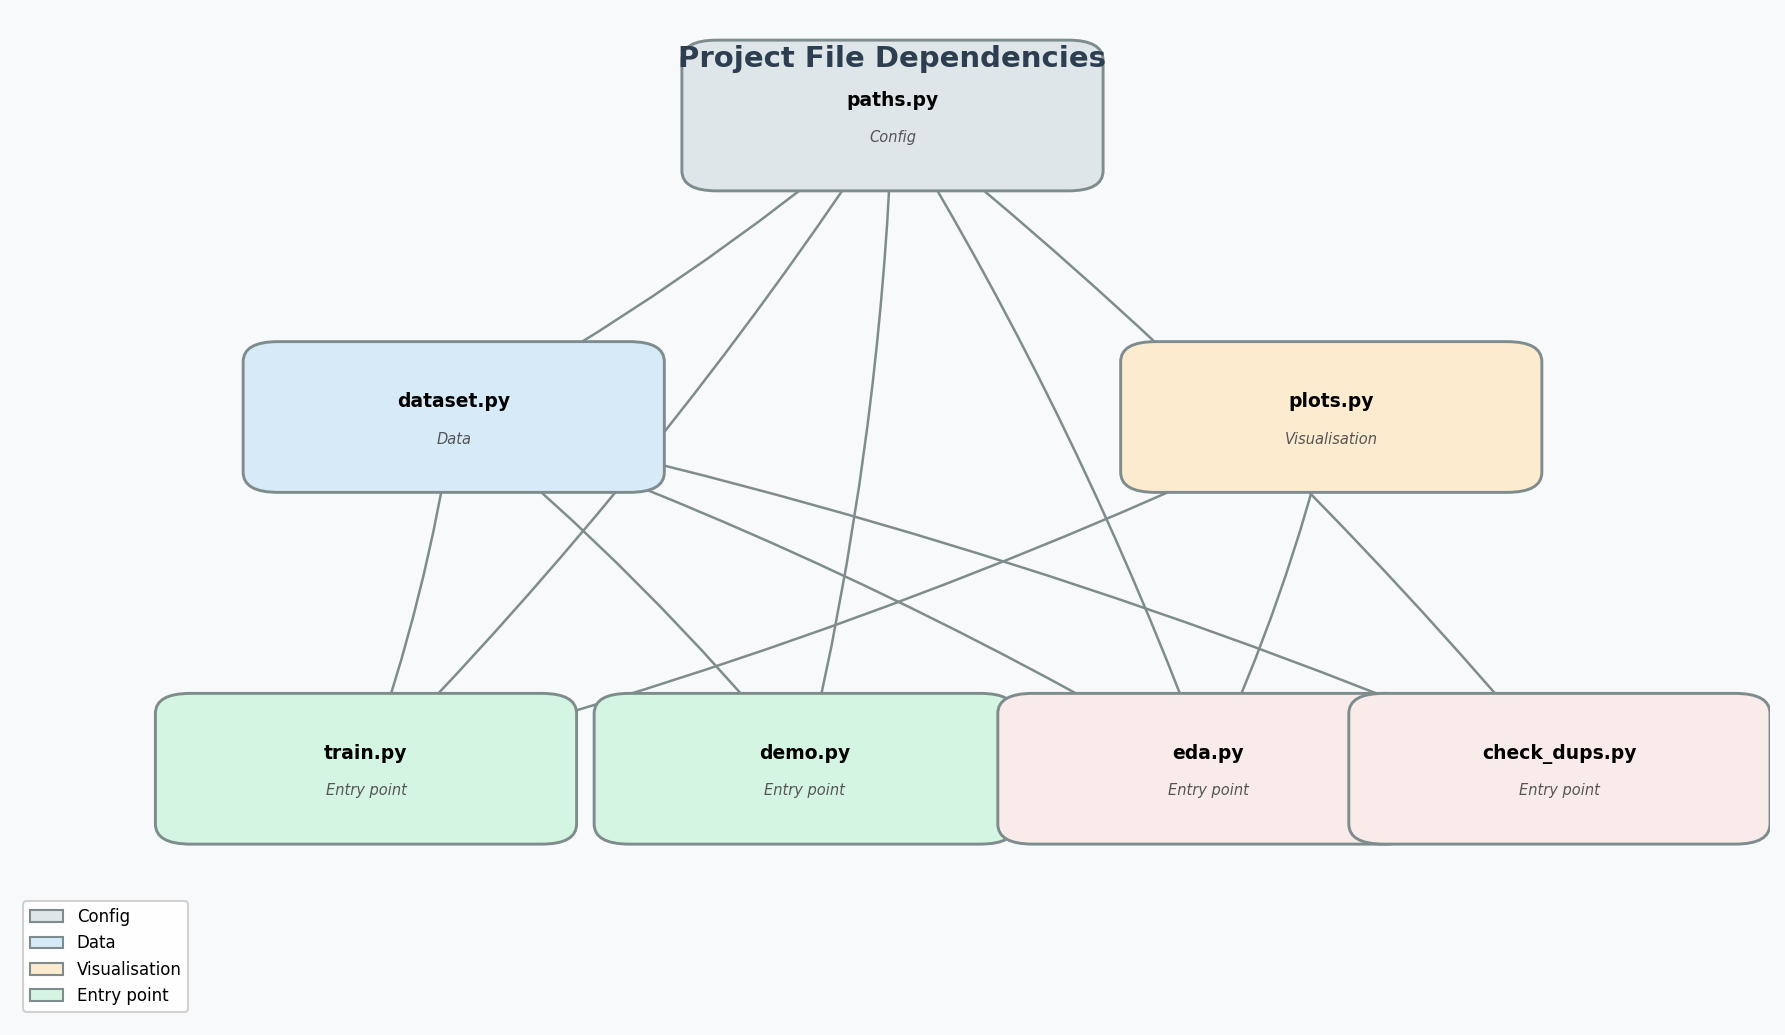
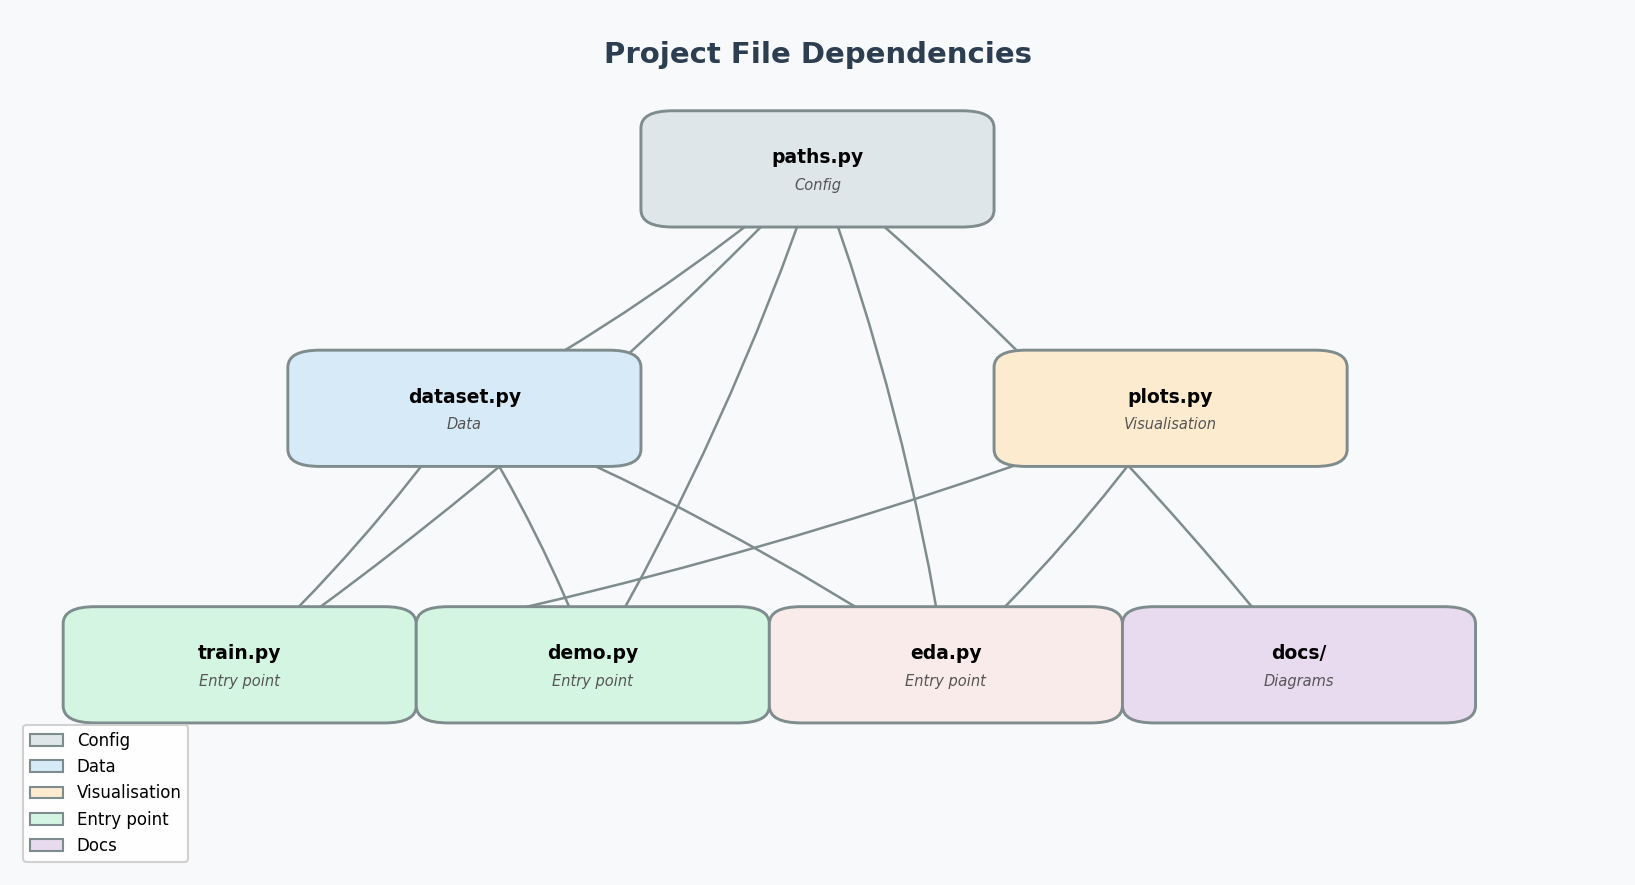
Enhance documentation and reporting; add optional diagram regeneration and save classification report to results

diff --git a/docs/structure_diagram.py b/docs/structure_diagram.py
@@ -10,59 +10,55 @@ Saves: docs/structure_diagram.png
 
 import matplotlib.pyplot as plt
 import matplotlib.patches as mpatches
-from matplotlib.patches import FancyArrowPatch
 from pathlib import Path
 
 DOCS_DIR = Path(__file__).parent
 
 # ── Define files and their roles ──────────────────────────────────────────────
 # Each entry: (file, role, color)
-# Roles: "config", "data", "visual", "logic", "entry"
 
 FILES = [
-    ("paths.py",       "config",  "#dfe6e9"),
-    ("dataset.py",     "data",    "#d6eaf8"),
-    ("plots.py",       "visual",  "#fdebd0"),
-    ("train.py",       "entry",   "#d5f5e3"),
-    ("demo.py",        "entry",   "#d5f5e3"),
-    ("eda.py",         "entry",   "#f9ebea"),
-    ("check_dups.py",  "entry",   "#f9ebea"),
+    ("paths.py",    "config",  "#dfe6e9"),
+    ("dataset.py",  "data",    "#d6eaf8"),
+    ("plots.py",    "visual",  "#fdebd0"),
+    ("train.py",    "entry",   "#d5f5e3"),
+    ("demo.py",     "entry",   "#d5f5e3"),
+    ("eda.py",      "entry",   "#f9ebea"),
+    ("docs/",       "docs",    "#e8daef"),
 ]
 
 # ── Define import dependencies ─────────────────────────────────────────────────
 # (importer, imported)
 EDGES = [
-    ("train.py",      "paths.py"),
-    ("train.py",      "dataset.py"),
-    ("train.py",      "plots.py"),
-    ("demo.py",       "paths.py"),
-    ("demo.py",       "dataset.py"),
-    ("eda.py",        "paths.py"),
-    ("eda.py",        "dataset.py"),
-    ("eda.py",        "plots.py"),
-    ("check_dups.py", "paths.py"),
-    ("check_dups.py", "dataset.py"),
-    ("dataset.py",    "paths.py"),
+    ("train.py",   "paths.py"),
+    ("train.py",   "dataset.py"),
+    ("train.py",   "plots.py"),
+    ("demo.py",    "paths.py"),
+    ("demo.py",    "dataset.py"),
+    ("eda.py",     "paths.py"),
+    ("eda.py",     "dataset.py"),
+    ("eda.py",     "plots.py"),
+    ("dataset.py", "paths.py"),
+    ("docs/",      "paths.py"),
 ]
 
 # ── Layout: manually position nodes for clarity ───────────────────────────────
-# (x, y) in figure coordinates
 POSITIONS = {
-    "paths.py":      (0.5,  0.90),
-    "dataset.py":    (0.25, 0.60),
-    "plots.py":      (0.75, 0.60),
-    "train.py":      (0.20, 0.25),
-    "demo.py":       (0.45, 0.25),
-    "eda.py":        (0.68, 0.25),
-    "check_dups.py": (0.88, 0.25),
+    "paths.py":   (0.50, 0.82),
+    "dataset.py": (0.28, 0.54),
+    "plots.py":   (0.72, 0.54),
+    "train.py":   (0.14, 0.24),
+    "demo.py":    (0.36, 0.24),
+    "eda.py":     (0.58, 0.24),
+    "docs/":      (0.80, 0.24),
 }
 
 COLORS = {
     "config": "#dfe6e9",
     "data":   "#d6eaf8",
     "visual": "#fdebd0",
-    "logic":  "#d5f5e3",
     "entry":  "#d5f5e3",
+    "docs":   "#e8daef",
 }
 
 ROLE_LABELS = {
@@ -70,11 +66,12 @@ ROLE_LABELS = {
     "data":   "Data",
     "visual": "Visualisation",
     "entry":  "Entry point",
+    "docs":   "Diagrams",
 }
 
 
 def main():
-    fig, ax = plt.subplots(figsize=(12, 7))
+    fig, ax = plt.subplots(figsize=(11, 6))
     ax.set_xlim(0, 1)
     ax.set_ylim(0, 1)
     ax.axis("off")
@@ -103,7 +100,7 @@ def main():
     for filename, role, color in FILES:
         x, y = POSITIONS[filename]
         box = mpatches.FancyBboxPatch(
-            (x - 0.10, y - 0.055), 0.20, 0.11,
+            (x - 0.09, y - 0.048), 0.18, 0.096,
             boxstyle="round,pad=0.02",
             linewidth=1.4,
             edgecolor="#7f8c8d",
@@ -111,10 +108,10 @@ def main():
             zorder=2
         )
         ax.add_patch(box)
-        ax.text(x, y + 0.015, filename,
+        ax.text(x, y + 0.013, filename,
                 ha="center", va="center",
                 fontsize=9, fontweight="bold", zorder=3)
-        ax.text(x, y - 0.022, ROLE_LABELS.get(role, role),
+        ax.text(x, y - 0.019, ROLE_LABELS.get(role, role),
                 ha="center", va="center",
                 fontsize=7, color="#555", style="italic", zorder=3)
 
@@ -124,6 +121,7 @@ def main():
         mpatches.Patch(facecolor=COLORS["data"],   edgecolor="#7f8c8d", label="Data"),
         mpatches.Patch(facecolor=COLORS["visual"], edgecolor="#7f8c8d", label="Visualisation"),
         mpatches.Patch(facecolor=COLORS["entry"],  edgecolor="#7f8c8d", label="Entry point"),
+        mpatches.Patch(facecolor=COLORS["docs"],   edgecolor="#7f8c8d", label="Docs"),
     ]
     ax.legend(handles=legend_items, loc="lower left",
               fontsize=8, framealpha=0.9, edgecolor="#ccc")

diff --git a/train.py b/train.py
@@ -235,8 +235,14 @@ model.load_state_dict(torch.load(MODEL_PATH, map_location=DEVICE, weights_only=T
 
 _, test_acc, test_preds, test_labels = evaluate(model, test_loader, criterion)
 print(f"Test Accuracy: {test_acc:.4f}")
+
+report = classification_report(test_labels, test_preds, target_names=CLASS_NAMES, digits=4)
 print("\nPer-class report:")
-print(classification_report(test_labels, test_preds, target_names=CLASS_NAMES, digits=4))
+print(report)
+
+report_path = RESULTS_DIR / "classification_report.txt"
+report_path.write_text(report)
+print(f"Saved: {report_path}")
 
 
 # ─────────────────────────────────────────────────────────────────────────────

diff --git a/docs/pipeline_diagram.py b/docs/pipeline_diagram.py
@@ -6,6 +6,9 @@ Output: results/pipeline_diagram.png
 import matplotlib.pyplot as plt
 import matplotlib.patches as mpatches
 from matplotlib.patches import FancyArrowPatch
+import sys
+from pathlib import Path
+sys.path.insert(0, str(Path(__file__).parent.parent))
 from paths import RESULTS_DIR
 
 # ── layout constants ──────────────────────────────────────────────────────────

diff --git a/README.md b/README.md
@@ -35,20 +35,23 @@ All weights are fine-tuned on the steel dataset.
 ├── paths.py          # File paths and class names — edit this if you move the data
 ├── dataset.py        # Label assignment, train/val/test splits, DataLoaders
 ├── plots.py          # All matplotlib visualisation functions
-├── train.py              # Training pipeline — run this to train the model
-├── demo.py               # Live inference on a random test image
-├── eda.py                # Exploratory data analysis (optional, for research only)
-├── check_dups.py         # Perceptual hash check for train/test leakage (optional)
-├── pipeline_diagram.py   # Generates the ML pipeline overview diagram
+├── train.py          # Training pipeline — run this to train the model
+├── demo.py           # Live inference on a random test image
+├── eda.py            # Exploratory data analysis (optional, for research only)
 ├── data/
 │   ├── train.csv         # Kaggle annotations (ImageId, ClassId, EncodedPixels)
 │   └── train_images/     # 12,568 steel surface images (.jpg)
 ├── models/
-│   └── best_model.pth    # Saved after training
-├── results/              # Runtime outputs — plots saved during training
+│   └── best_model.pth    # Saved after training (git-ignored)
+├── results/              # Runtime outputs — plots and reports (git-ignored)
+├── legacy/
+│   └── check_dups.py     # Perceptual hash check for train/test leakage (optional)
 └── docs/
+    ├── concepts.md            # Explanations of key concepts and code decisions
     ├── structure_diagram.py   # Generates the file dependency diagram
-    └── structure_diagram.png  # Visual map of how project files connect
+    ├── structure_diagram.png  # Visual map of how project files connect
+    ├── pipeline_diagram.py    # Generates the ML pipeline overview diagram
+    └── pipeline_diagram.png   # Step-by-step pipeline for train.py and demo.py
 ```
 
 ---
@@ -78,13 +81,19 @@ python train.py
 ```
 - Requires a CUDA-capable GPU
 - Trains for 15 epochs, saves the best checkpoint to `models/best_model.pth`
-- Saves all result plots to `results/`
+- Saves all result plots and classification report to `results/`
 
 ### 3. Run live inference
 ```bash
 python demo.py
 ```
 Picks a random image from the held-out test split and shows the model's prediction with class probabilities.
+
+### 4. Regenerate diagrams (optional)
+```bash
+python docs/structure_diagram.py
+python docs/pipeline_diagram.py
+```
 
 ---
 